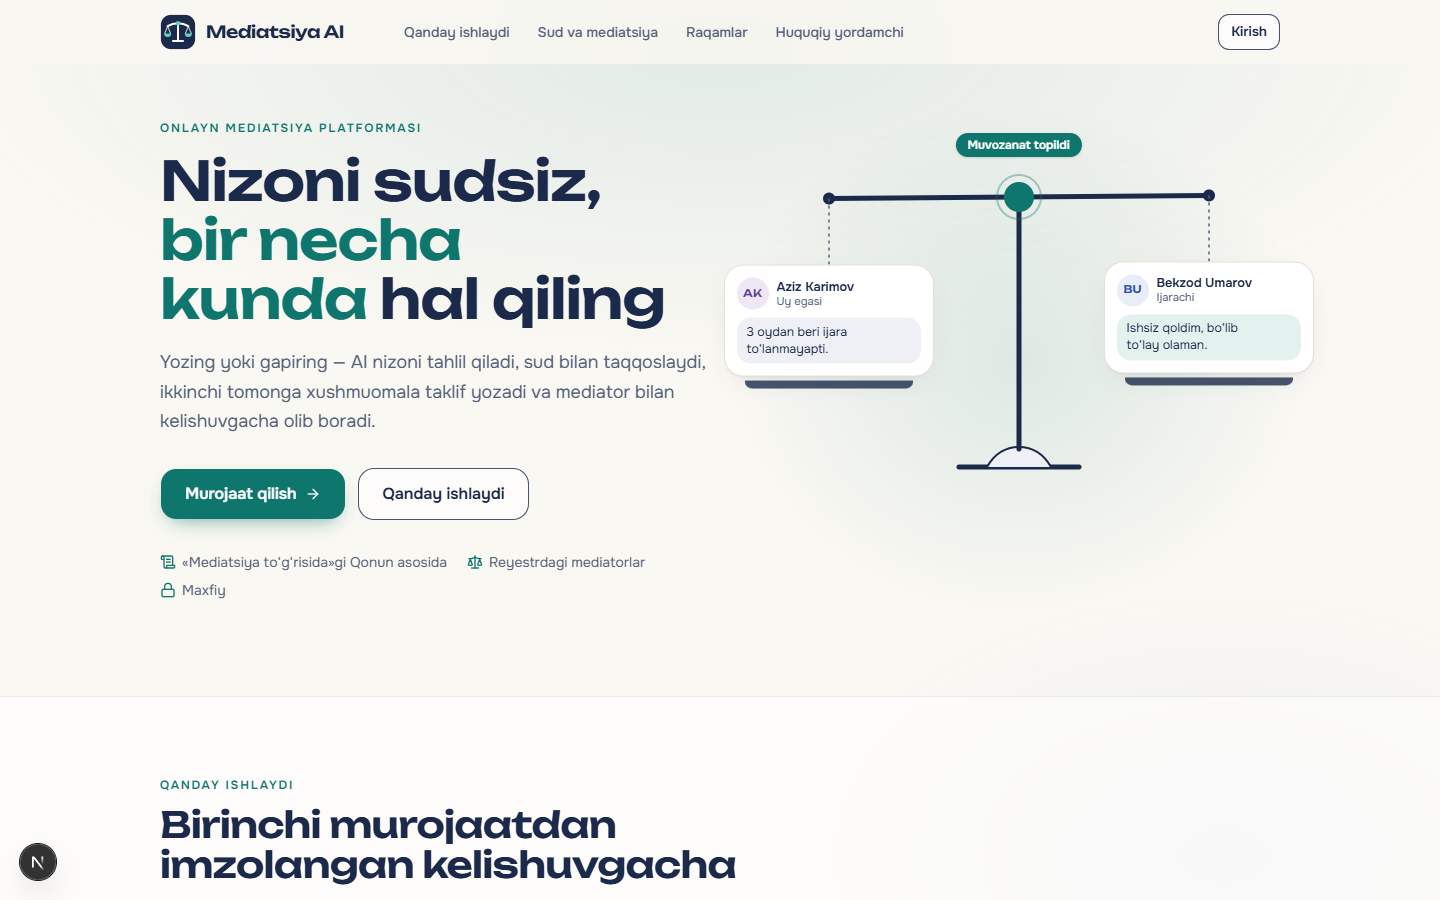
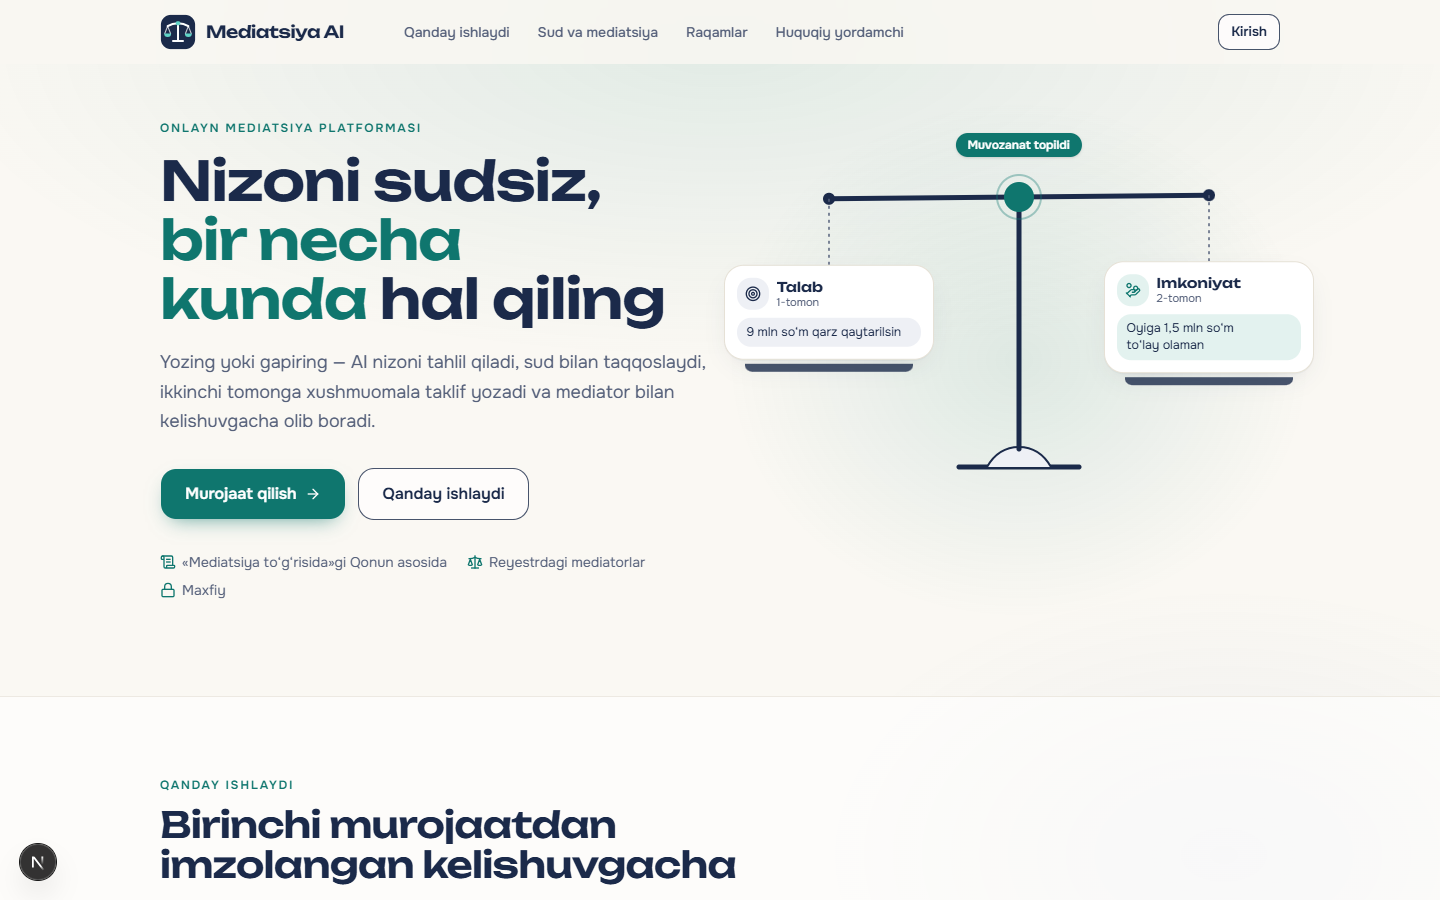
feat(web): scale pans show demand and capacity instead of names

Changed region(s): [[0.5, 0.3111, 0.6562, 0.4356], [0.7812, 0.3111, 0.875, 0.3733]]

diff --git a/web/src/components/landing/hero-scales.tsx b/web/src/components/landing/hero-scales.tsx
@@ -1,9 +1,8 @@
 "use client";
 
-import { Sparkles } from "lucide-react";
+import { HandCoins, Sparkles, Target } from "lucide-react";
 import { AnimatePresence, motion, useReducedMotion, useSpring, useTransform } from "motion/react";
 import { useEffect, useState } from "react";
-import { Avatar } from "@/components/brand/bits";
 import { Seal } from "@/components/brand/seal";
 
 /**
@@ -94,8 +93,8 @@ export function HeroScales() {
         </AnimatePresence>
 
         {/* the two pans carry the two parties */}
-        <Pan x={leftX} y={leftY} side="left" name="Aziz Karimov" role="Uy egasi" text="3 oydan beri ijara toʻlanmayapti." />
-        <Pan x={rightX} y={rightY} side="right" name="Bekzod Umarov" role="Ijarachi" text="Ishsiz qoldim, boʻlib toʻlay olaman." />
+        <Pan x={leftX} y={leftY} side="left" title="Talab" sub="1-tomon" text="9 mln soʻm qarz qaytarilsin" />
+        <Pan x={rightX} y={rightY} side="right" title="Imkoniyat" sub="2-tomon" text="Oyiga 1,5 mln soʻm toʻlay olaman" />
       </div>
 
       <AnimatePresence mode="wait">
@@ -125,15 +124,15 @@ function Pan({
   x,
   y,
   side,
-  name,
-  role,
+  title,
+  sub,
   text,
 }: {
   x: ReturnType<typeof useTransform<number, number>>;
   y: ReturnType<typeof useTransform<number, number>>;
   side: "left" | "right";
-  name: string;
-  role: string;
+  title: string;
+  sub: string;
   text: string;
 }) {
   // pan centre sits under the beam end: 260 ± 190 in a 520-wide box → 13.5 % / 86.5 %
@@ -144,13 +143,17 @@ function Pan({
     >
       <div className="sheet p-3">
         <div className="flex items-center gap-2">
-          <Avatar name={name} className="size-8 text-[0.65rem]" />
+          <span
+            className={`grid size-8 shrink-0 place-items-center rounded-lg ${side === "left" ? "bg-ink-wash text-ink" : "bg-accord-tint text-accord"}`}
+          >
+            {side === "left" ? <Target className="size-4" /> : <HandCoins className="size-4" />}
+          </span>
           <div className="min-w-0 leading-tight">
-            <p className="truncate text-[0.8rem] font-semibold text-ink">{name}</p>
-            <p className="text-[0.7rem] text-ink-soft">{role}</p>
+            <p className="truncate font-display text-[0.85rem] font-semibold text-ink">{title}</p>
+            <p className="text-[0.7rem] text-ink-soft">{sub}</p>
           </div>
         </div>
-        <p className={`mt-2 rounded-lg px-2.5 py-1.5 text-[0.78rem] leading-snug text-ink ${side === "left" ? "bg-ink-wash" : "bg-accord-tint"}`}>{text}</p>
+        <p className={`mt-2 flex min-h-[2.9rem] items-center rounded-lg px-2.5 py-1.5 text-[0.78rem] leading-snug text-ink ${side === "left" ? "bg-ink-wash" : "bg-accord-tint"}`}>{text}</p>
       </div>
       {/* the pan itself */}
       <div className="mx-auto mt-1 h-2 w-[80%] rounded-b-full bg-ink/80" />

diff --git a/docs/pitch/progress.md b/docs/pitch/progress.md
@@ -25,3 +25,4 @@ Taqdimot shu jadval va `shots/` papkasidagi skrinshotlar asosida tayyorlanadi.
 | 2026-11-20 | Fon | "Atlas muvozanati": sahifa chetlarida oʻzbek xon-atlas (abr) naqshi Samarqand koshinlari ranglarida (kobalt, firuza, zaʼfaron, anor qizil), tarozi pallalaridek koʻzgu-simmetrik — adolat va ikki tomon tengligi ramzi; telefonda ingichka atlas jiyaklari | shots/FON-e-1440.png, shots/FON-e-kirish-1440.png |
 | 2026-11-20 | Fon v2 | Atlas naqshi boyitildi: qavatma-qavat zinali romblar (tashqi rang → krem oraliq → ichki rang → yorqin markaz), atlas "taroq" belgilari, koʻp rangli jiyak, ipak tolalari va yengil ipak yaltirashi; har bir sarlavha ostida ingichka rangli atlas chizigʻi | shots/FON-e-1440.png |
 | 2026-11-20 | Ramz | Yangi ramz: adolat tarozisi mediatsiyaga moslandi — ikki tomon tarozi pallalarida, tayanch nuqtasi AI. Hero animatsiyasi: tarozi ogʻgan (nizo) → AI umumiy nuqta qidiradi → "Muvozanat topildi" → kelishuv muhri. Logotip ham tarozi. Fon toza qogʻoz + yumshoq yorugʻlik (atlas, girih, gilyosh olib tashlandi) | shots/HERO-1-ogma-1440.png, shots/HERO-4-muhr-1440.png |
+| 2026-11-20 | Ramz v2 | Tarozi pallalarida ismlar oʻrniga "Talab" (9 mln soʻm qarz qaytarilsin) va "Imkoniyat" (oyiga 1,5 mln soʻm toʻlay olaman); kelishuv ikkalasini birlashtiradi: 6 oyda, oyiga 1,5 mln | shots/HERO-4-muhr-1440.png |
